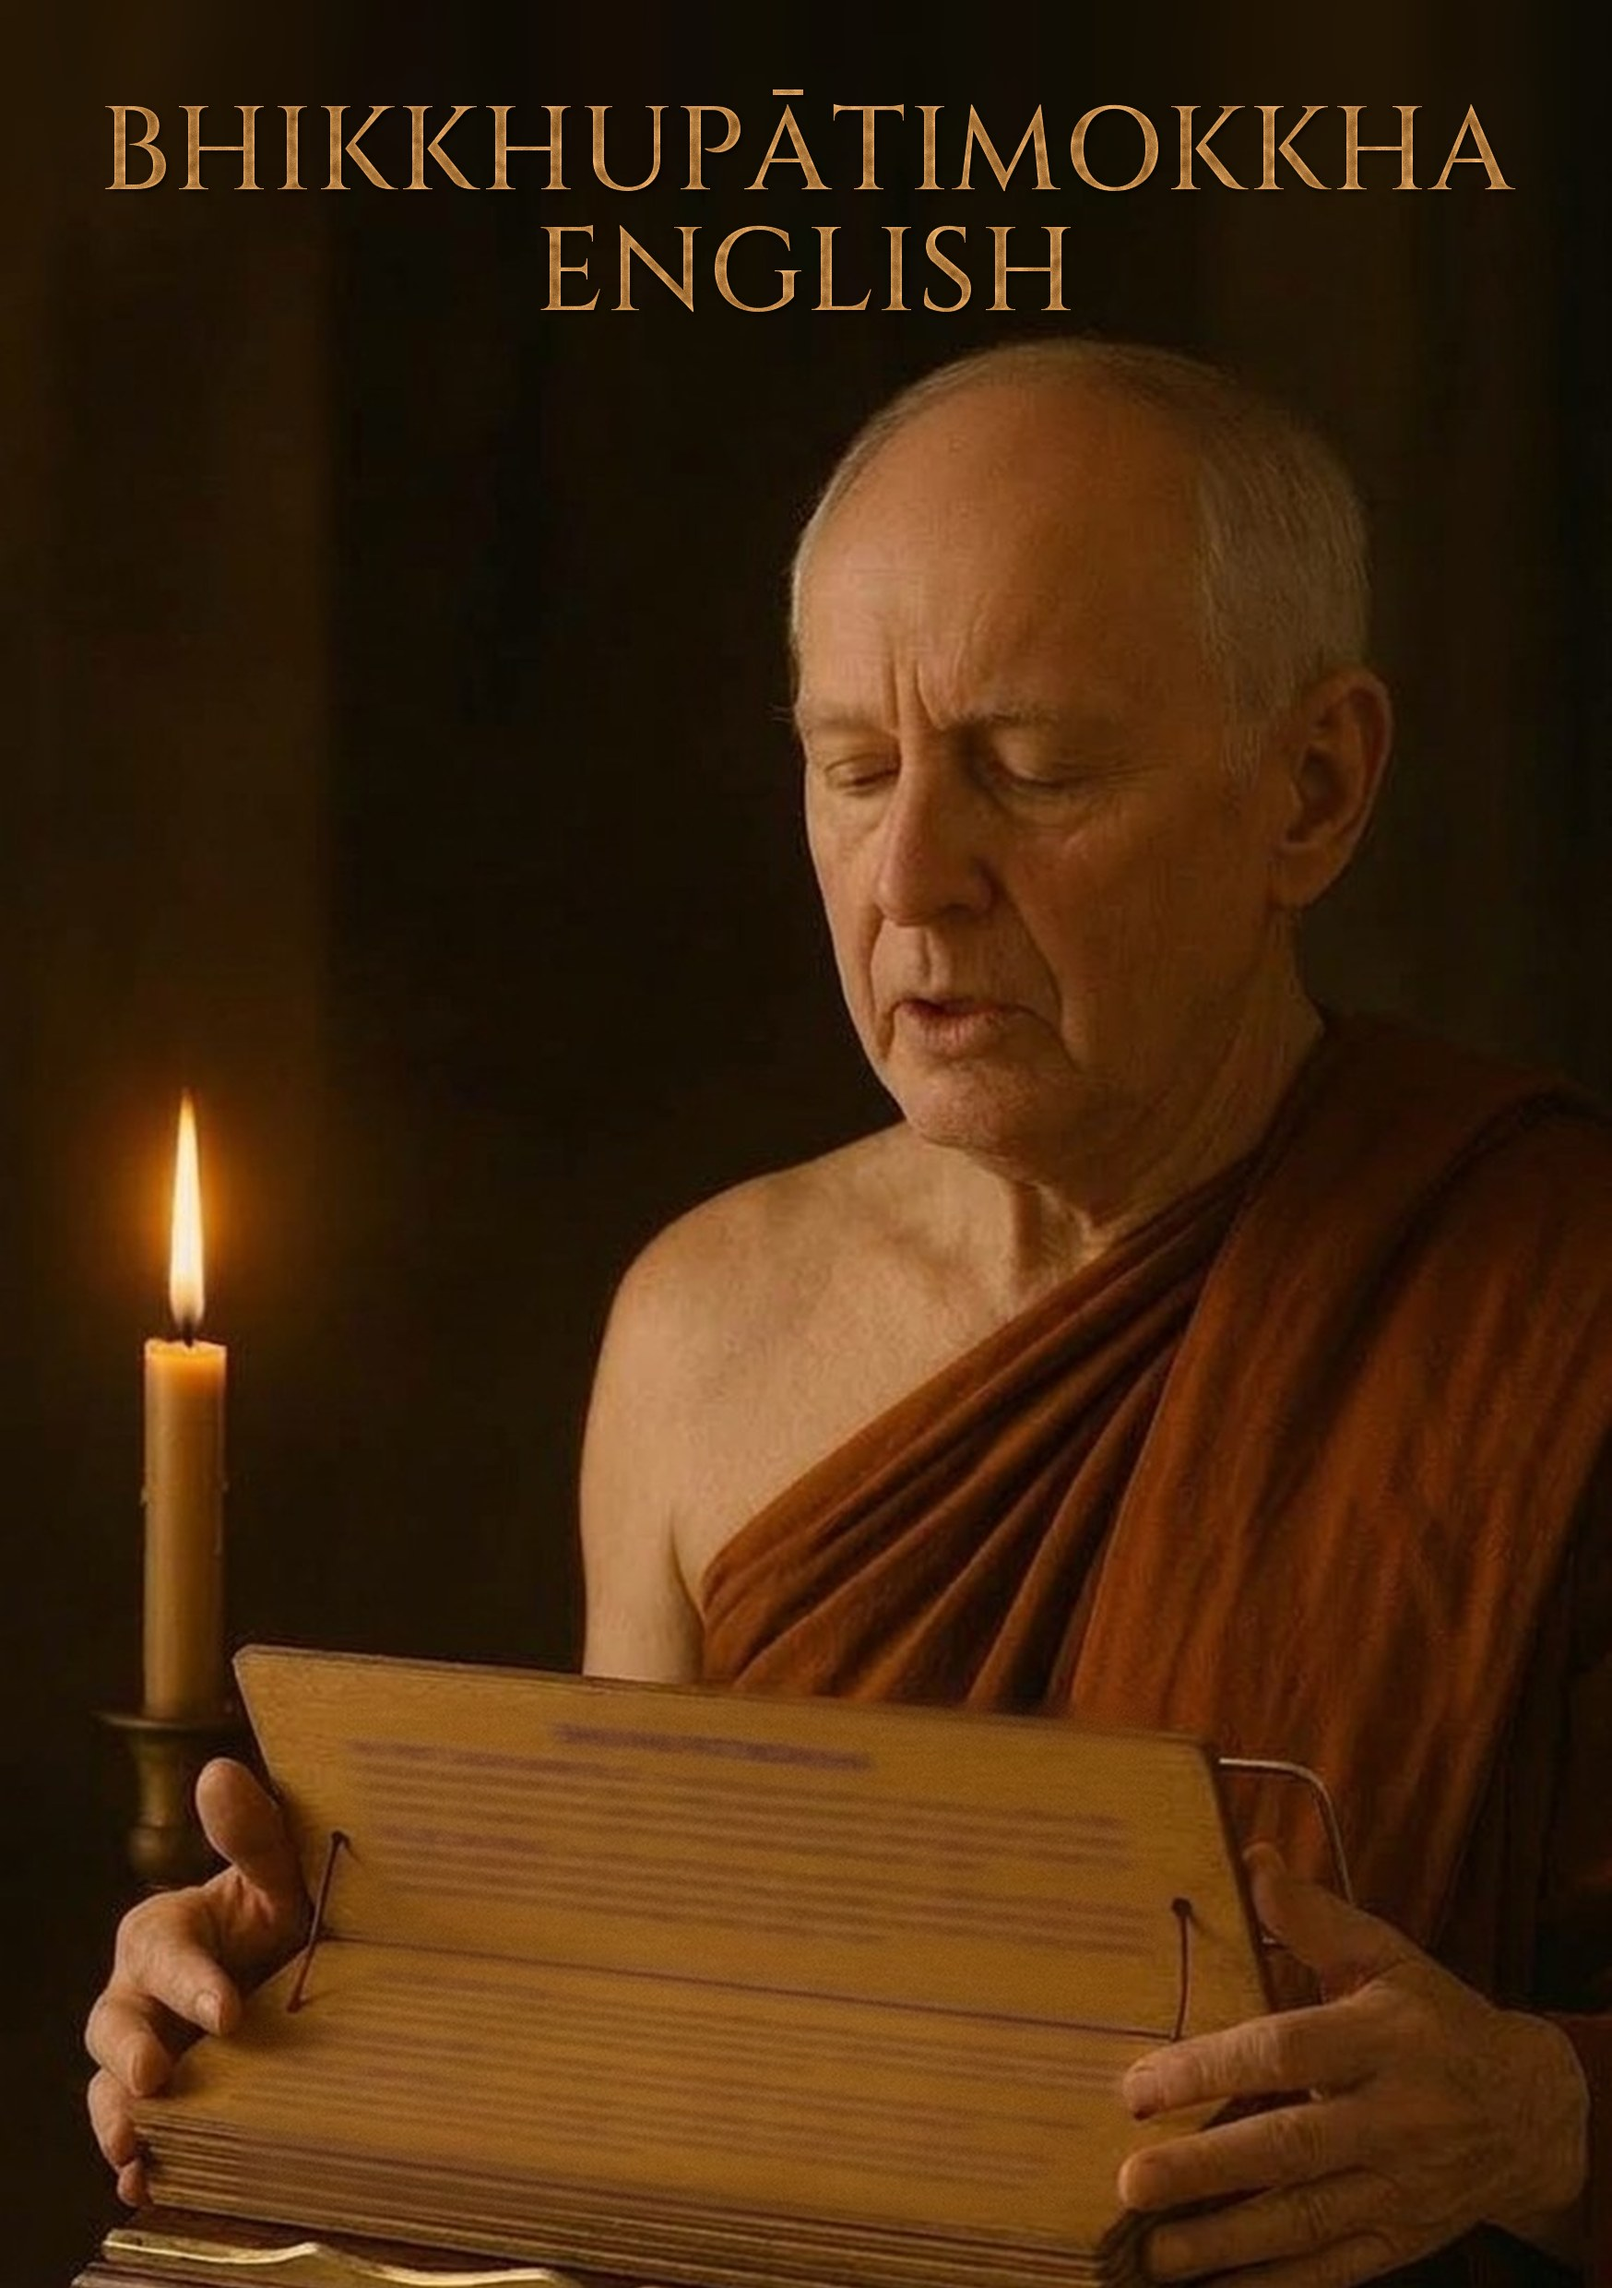
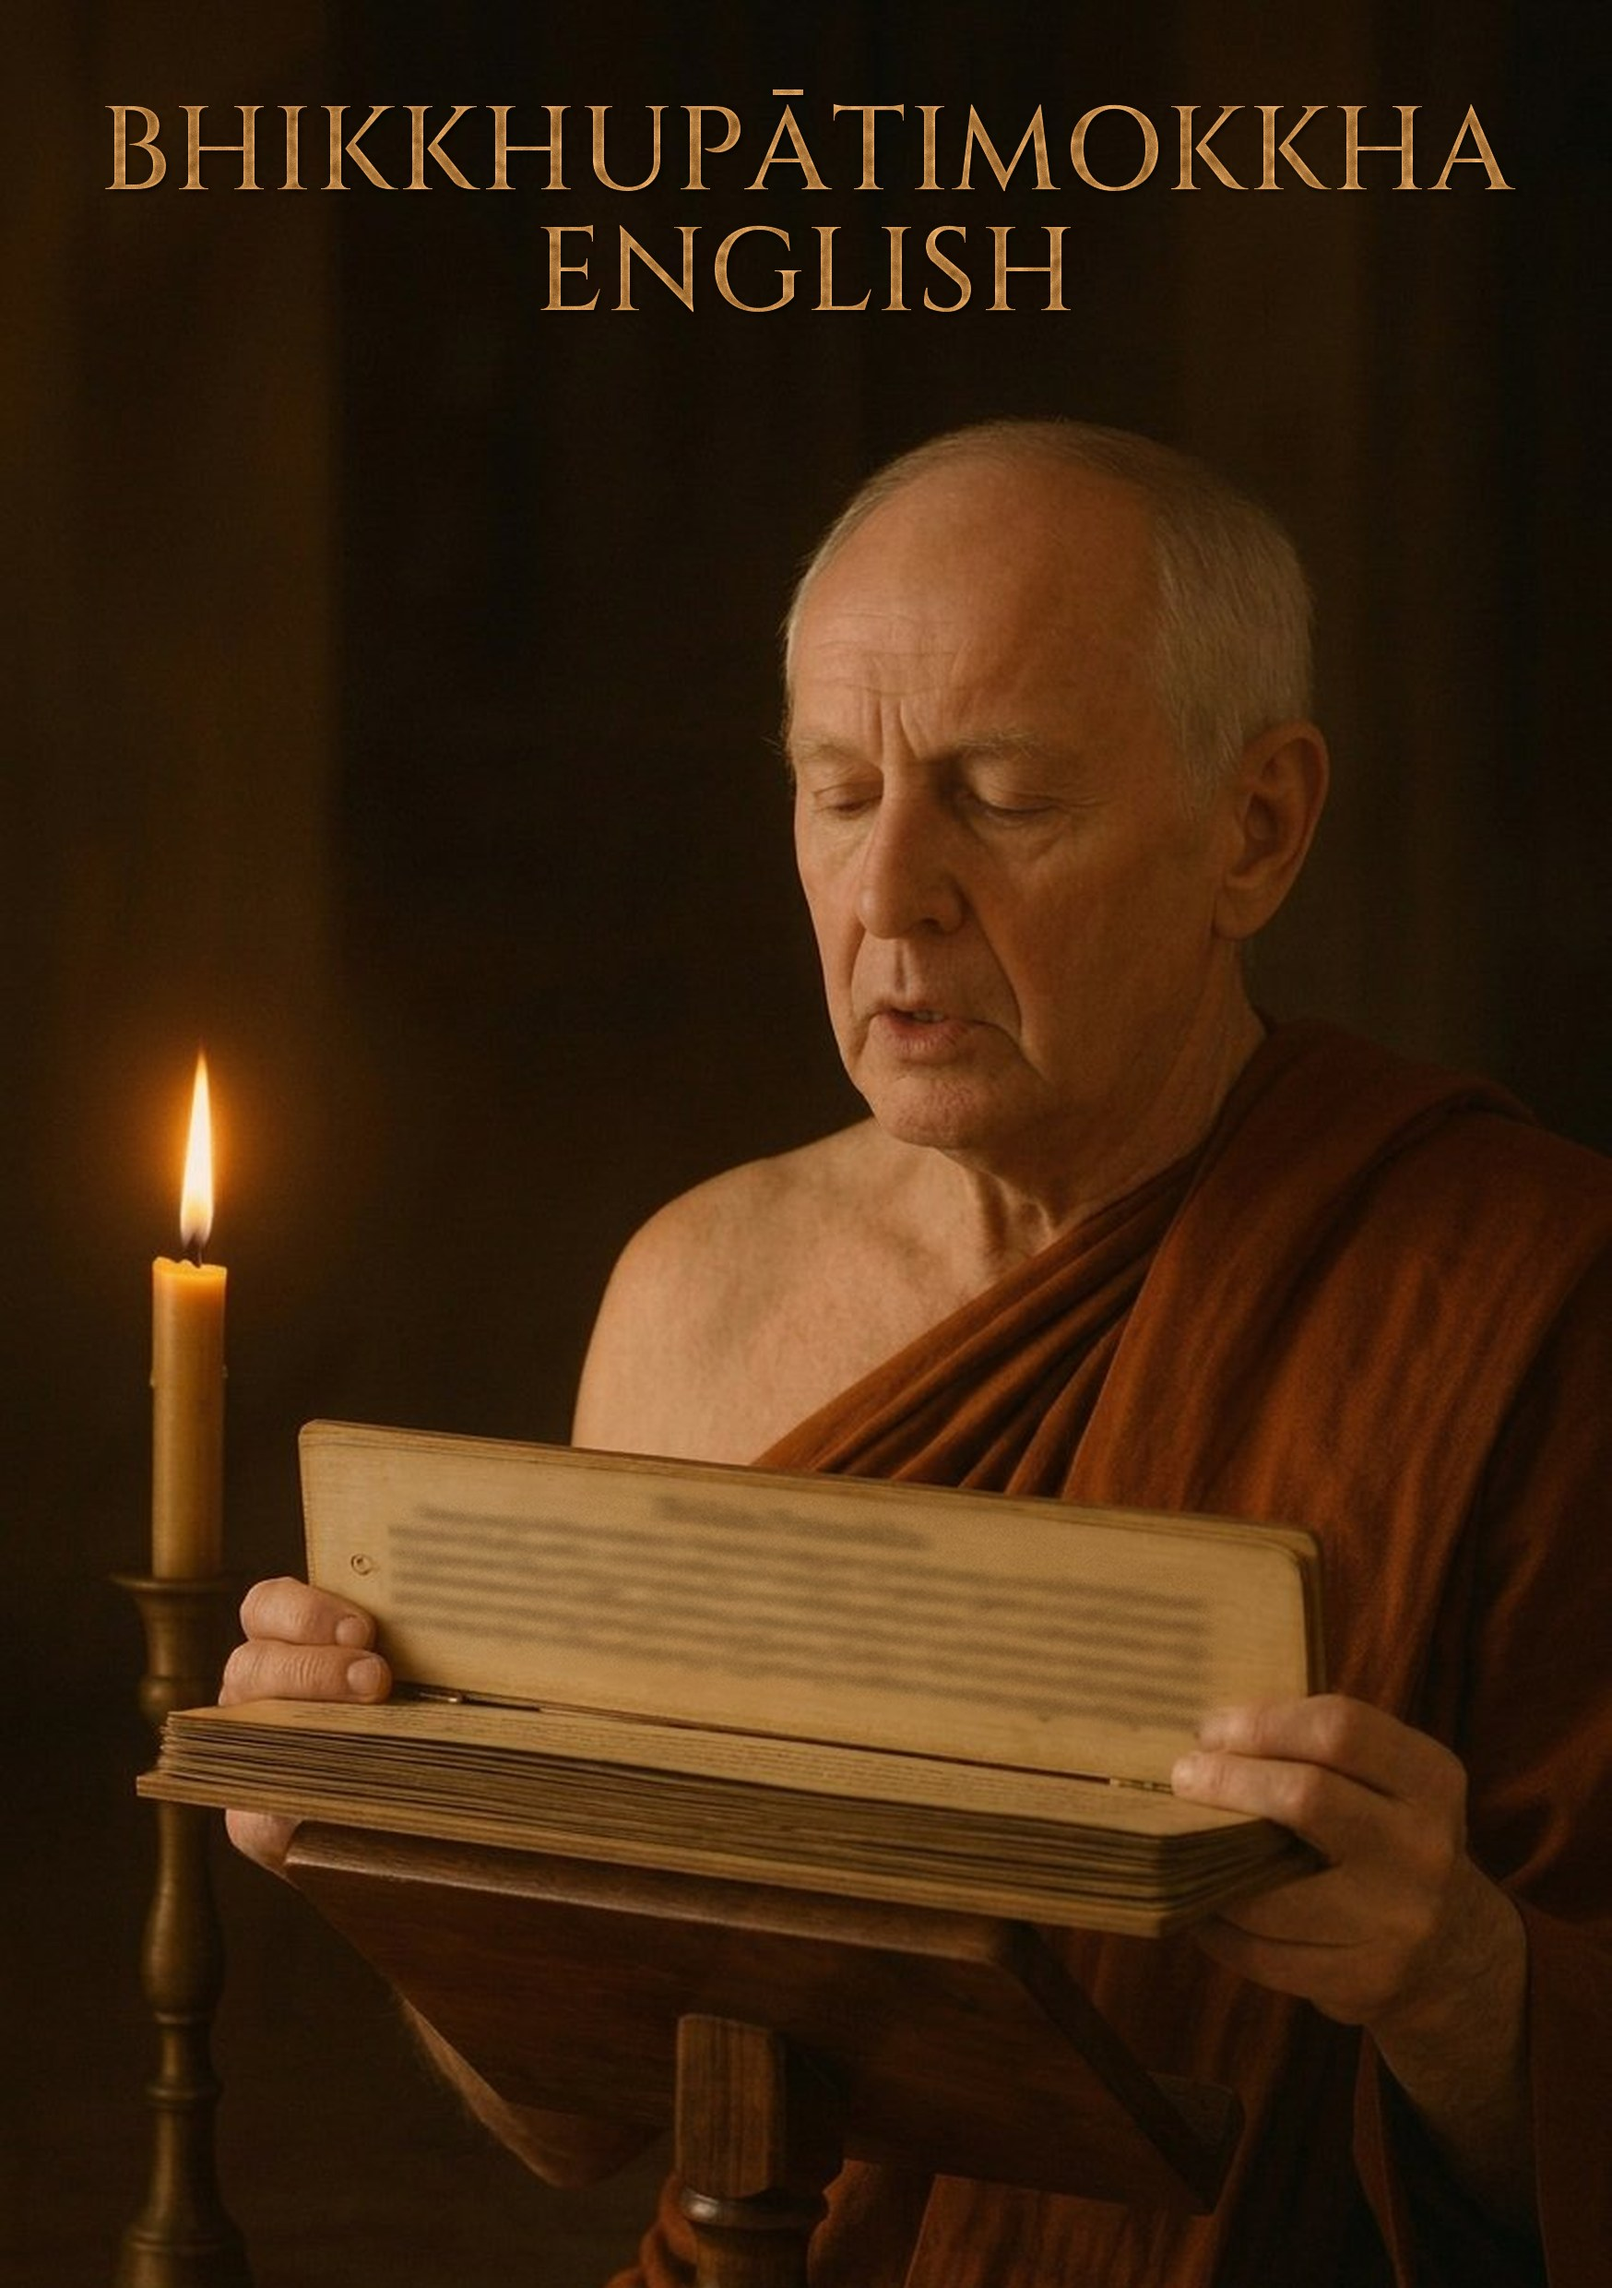
Replace the English chapter picture with the user's new image
- English chapter picture: the western monk reading from a thick book on
  a reading stand (848×1264). It's scaled to page width with no shift
  needed, and the title is applied. The painted pseudo-text on the page
  ("Bhikkhu Patimokkha" and the lines) is blurred into unreadable script.
- Same picture in the A5 PDF, the 9×13 PDF and the EPUB.
- CLAUDE.md updated.

Claude-Session: https://claude.ai/code/session_01KQ2yfUidkNtdnxzdx8GaCt

diff --git a/assets/bin/section-titles.py b/assets/bin/section-titles.py
@@ -30,7 +30,7 @@ TRACK_PER_PX = 2 / 188
 # height, how far to move the picture down to make room for the title)
 TITLES = {
     'pali': (['Bhikkhupātimokkha', 'Pāli'], 128, 115, 0.45, 150),
-    'english': (['Bhikkhupātimokkha', 'English'], 128, 115, 0.45, 150),
+    'english': (['Bhikkhupātimokkha', 'English'], 128, 115, 0.45, 0),
     'post-patimokkha': (['Post-Pātimokkha', 'Recitations'], 128, 115, 0.45, 0),
 }
 
@@ -92,11 +92,8 @@ ILLEGIBLE = {
         [(160, 780), (556, 780), (556, 848), (160, 848)],
     ],
     'english': [
-        [(160, 744), (552, 744), (552, 800), (160, 800)],                      # title + upper page
-        [(172, 800), (552, 800), (552, 866), (172, 866)],
-        [(158, 866), (536, 866), (536, 896), (158, 896)],                      # lower page
-        [(114, 896), (536, 896), (536, 945), (114, 945)],
-        [(114, 945), (522, 945), (522, 988), (114, 988)],
+        # one slanted page; the text runs a little lower towards the right
+        [(205, 790), (345, 783), (495, 788), (640, 830), (642, 912), (400, 888), (205, 864)],
     ],
 }
 

diff --git a/CLAUDE.md b/CLAUDE.md
@@ -48,10 +48,11 @@
 - Chapter-opening pictures carry their part title (as in the contents page), in the style of the
   lettering painted on the Appendix picture. Regenerate them with `python3 assets/bin/section-titles.py`,
   which reads the untitled originals in `assets/illustrations/untitled/` and uses Cinzel Medium
-  (`assets/fonts/cinzel`, OFL). The Pāli and English pictures (the user's 768×1376 images; the western
-  monk is English) are scaled to page width (2.3×), moved down 150 px for the title and trimmed at the bottom.
-  Their painted pseudo-text on the book pages is blurred into faint, unreadable lines (`ILLEGIBLE` regions in
-  `section-titles.py`, in the original images' pixel coordinates).
+  (`assets/fonts/cinzel`, OFL). The Pāli picture (the user's 768×1376 image) is scaled to page width
+  (2.3×), moved down 150 px for the title and trimmed at the bottom. The English picture (the user's
+  848×1264 image of the western monk with the book on a stand) is scaled to page width (2.06×) and
+  trimmed at the bottom, with no shift. The painted pseudo-text on both book pages is blurred into faint,
+  unreadable lines (`ILLEGIBLE` regions in `section-titles.py`, in the original images' pixel coordinates).
   The Appendix picture already had its title painted in, so it is not regenerated.
 - English spelling decisions: clothweavers, sheepwool, extraordinary, ninefold, "rains bathing-cloth".
   Pāli: sammāsambuddhena (unhyphenated). Pāc 91 keeps "Vassikasāṭikāsikkhāpada" (user's decision).
